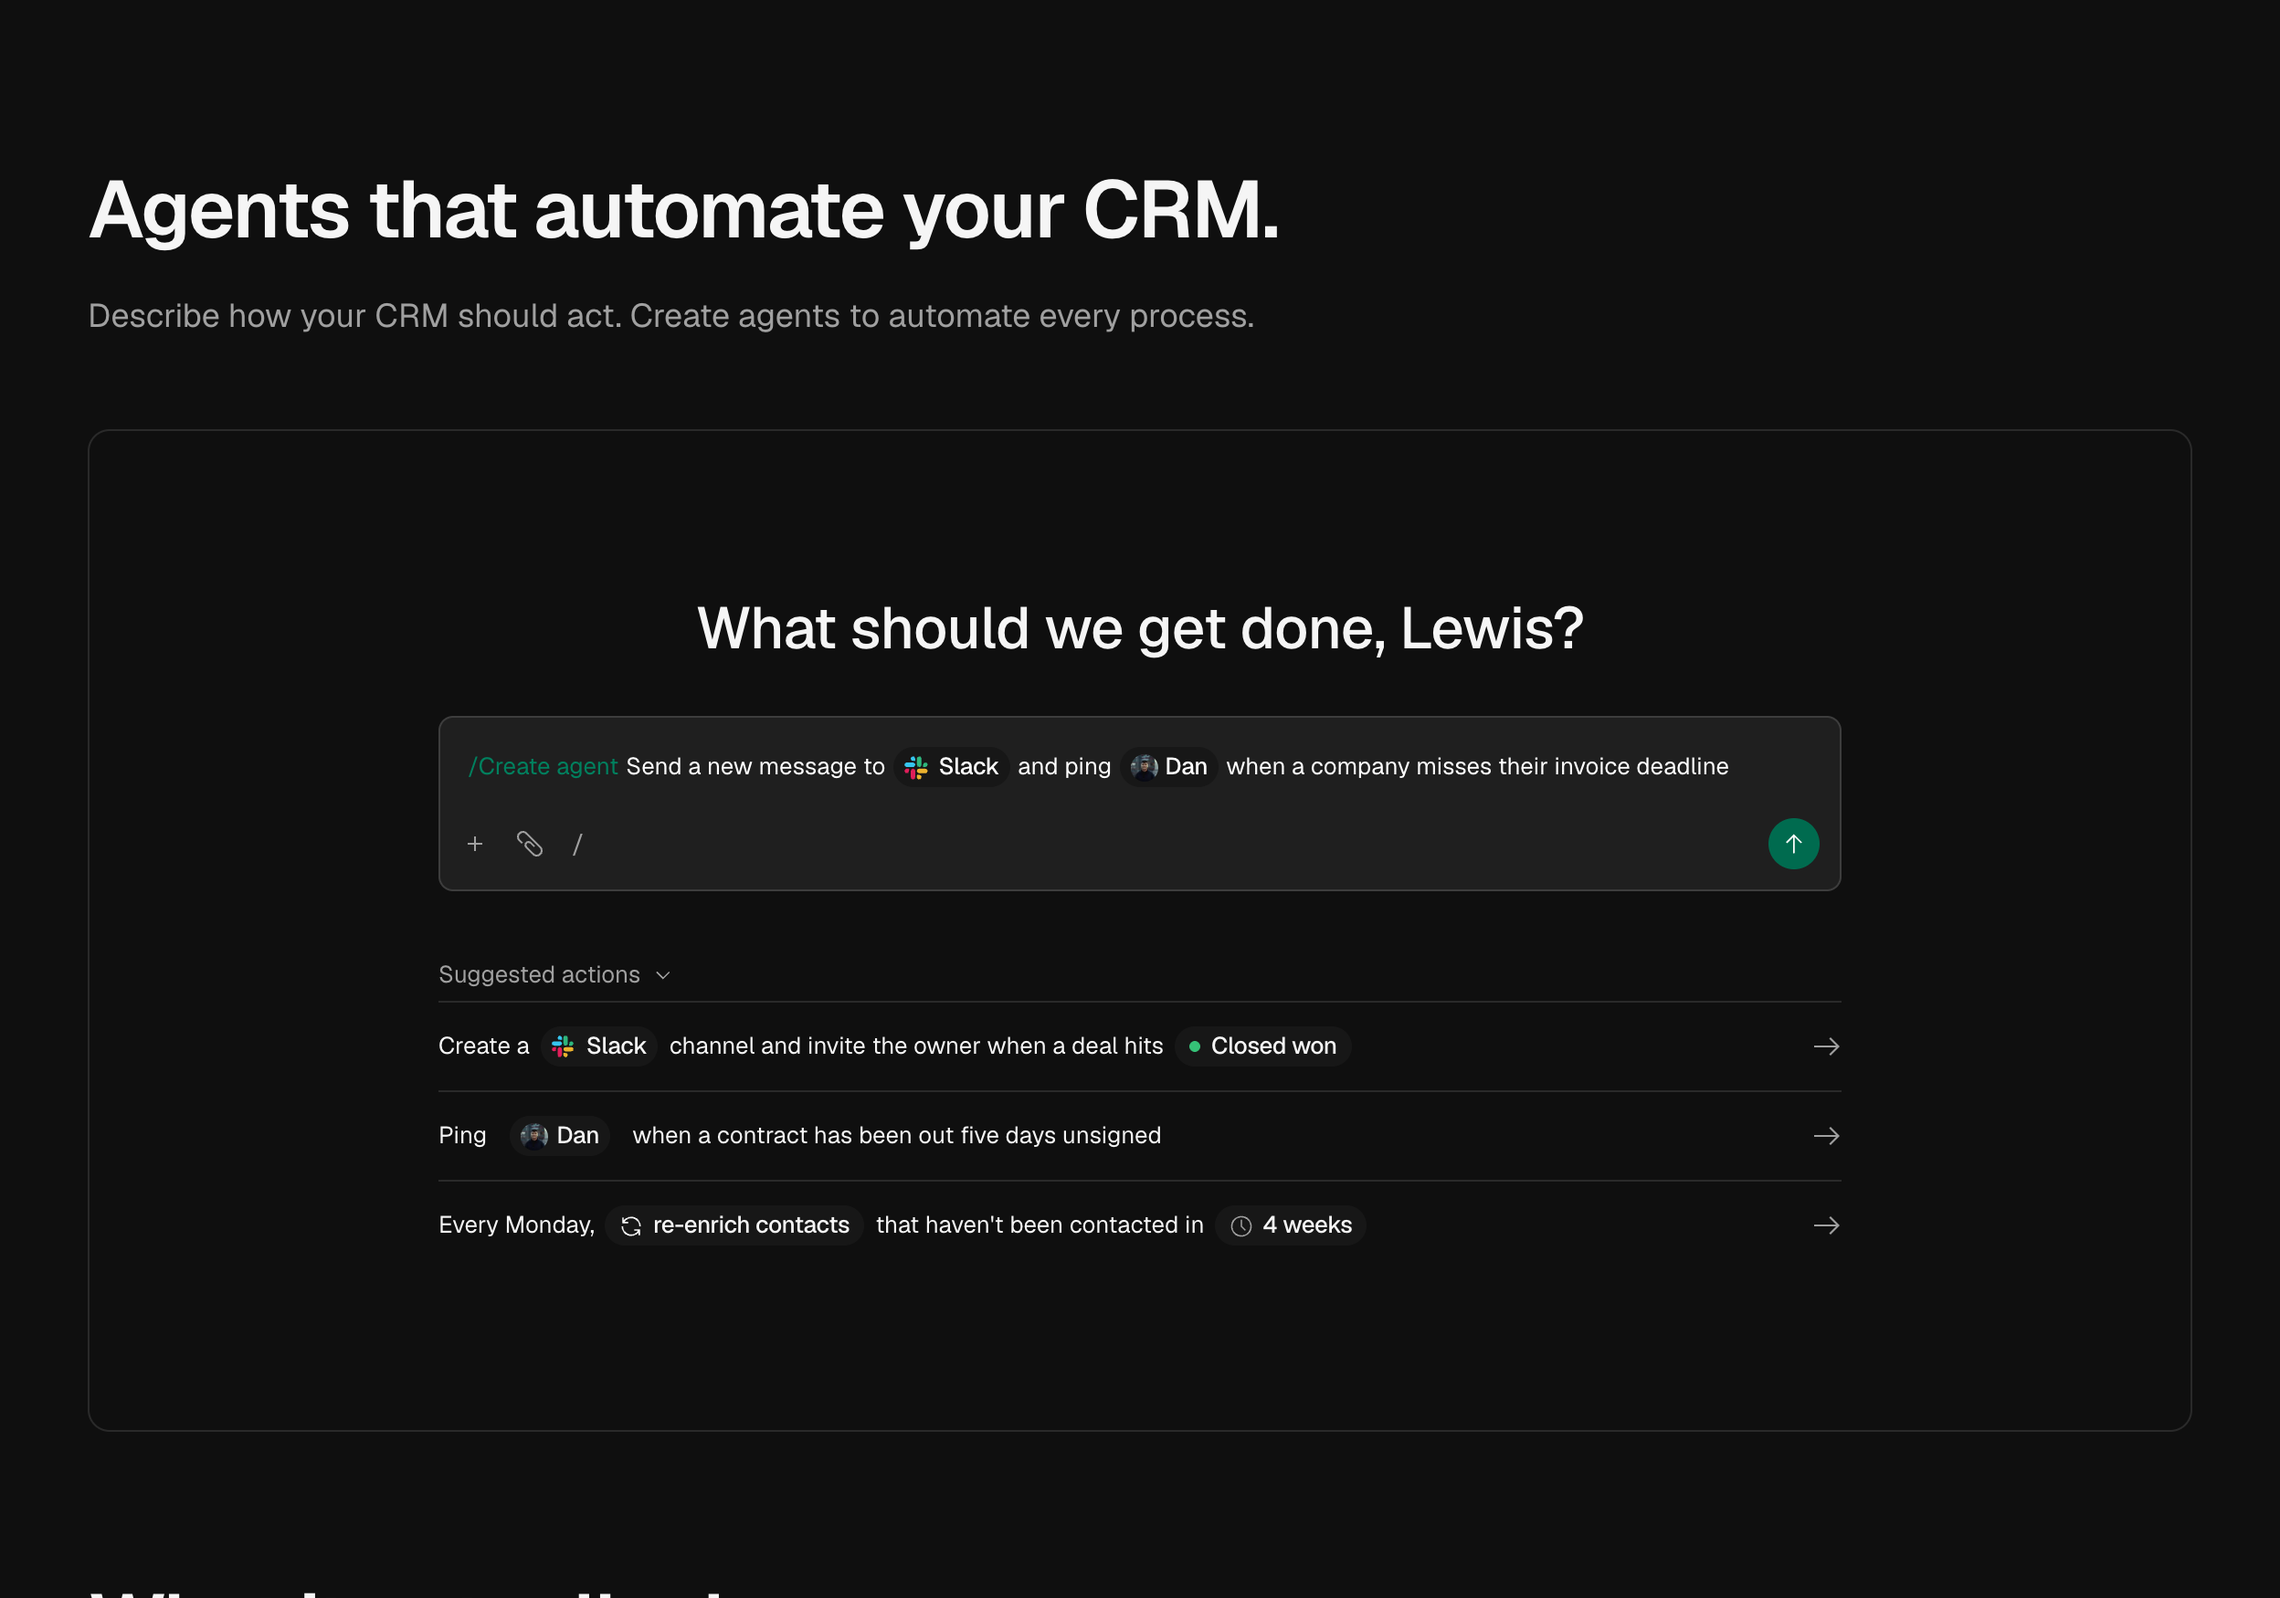
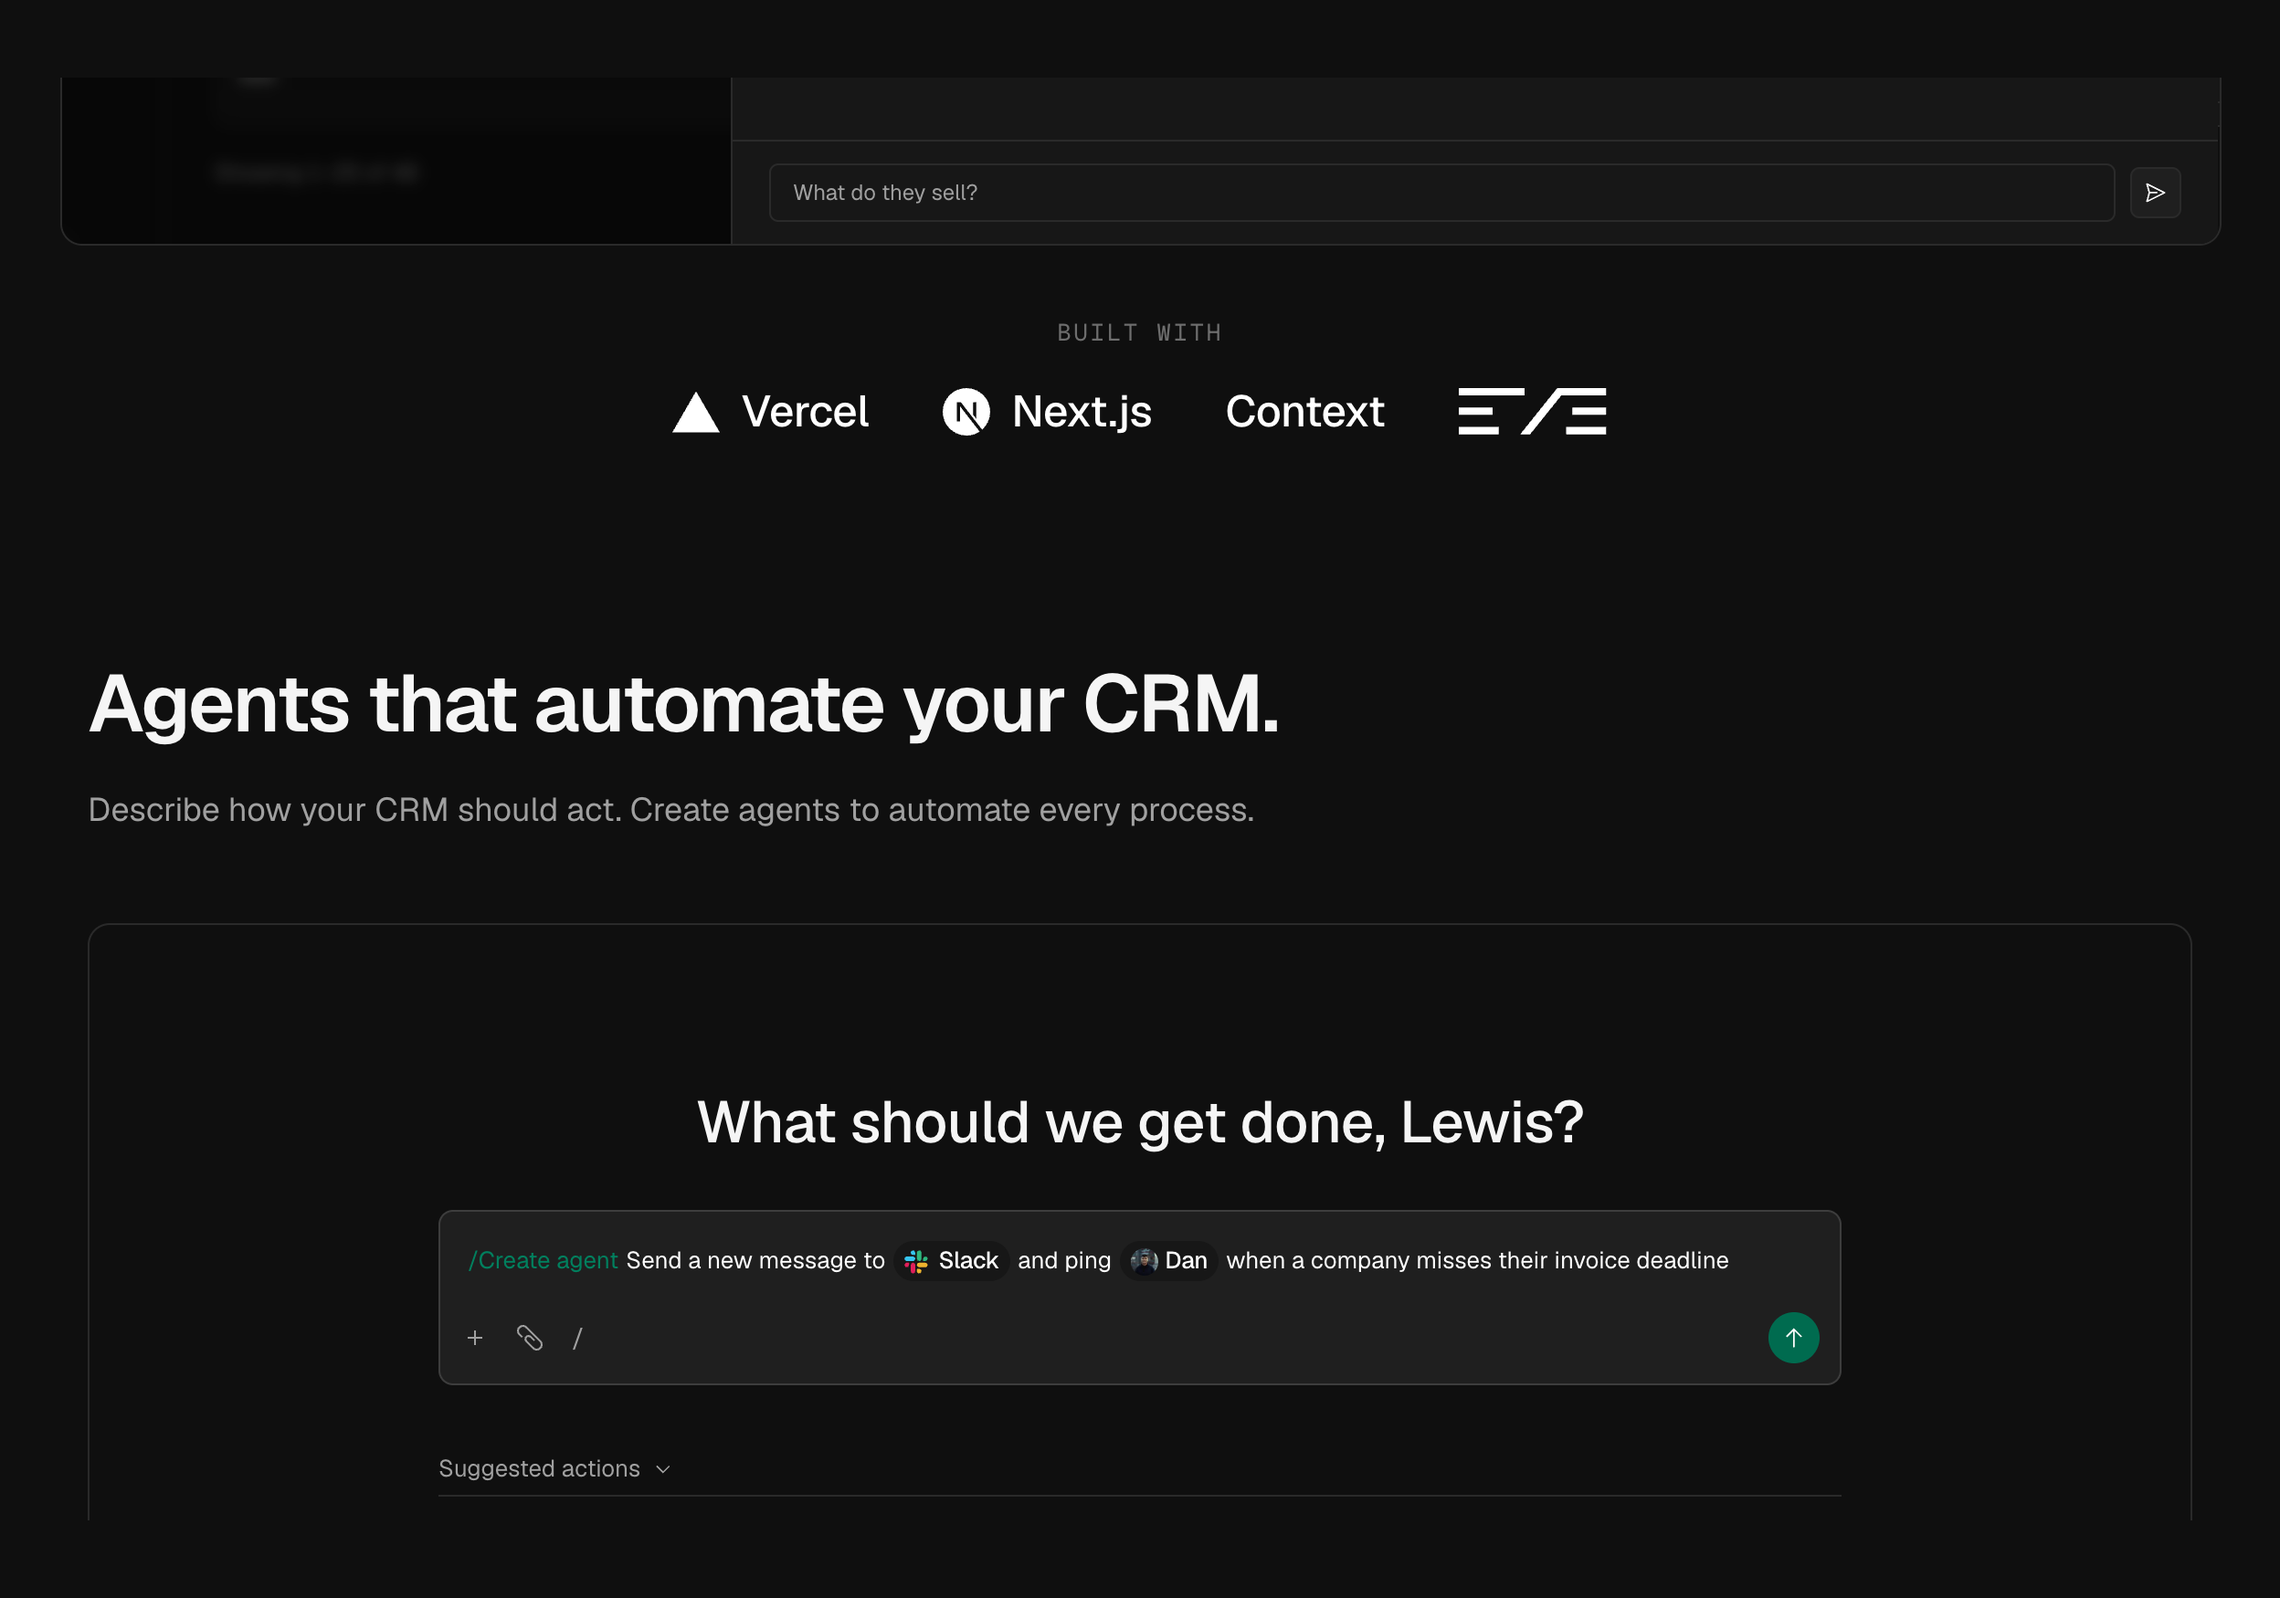
Update README and replace landing hero image
- Updated the README to reflect the new image caption for the companies list.
- Replaced the outdated landing hero image with a new product shot to enhance visual appeal.
- Removed the old landing hero image from the repository.

diff --git a/README.md b/README.md
@@ -35,7 +35,7 @@
 </p>
 
 <p align="center">
-  <img alt="The CRM built for Agents — the companies list with an account open on its Agent tab" src="./docs/images/landing-hero.png">
+  <img alt="The companies list with an account open on its Agent tab" src="./docs/images/product-shot.png">
 </p>
 
 ---
